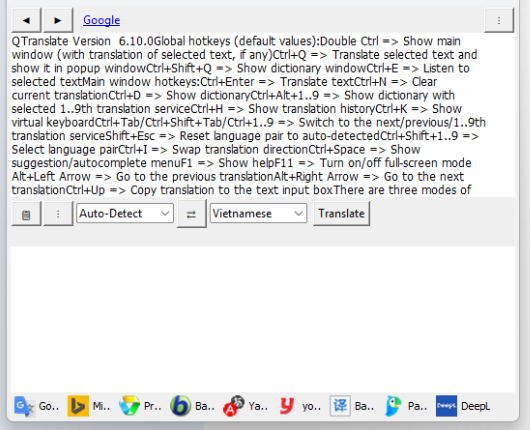
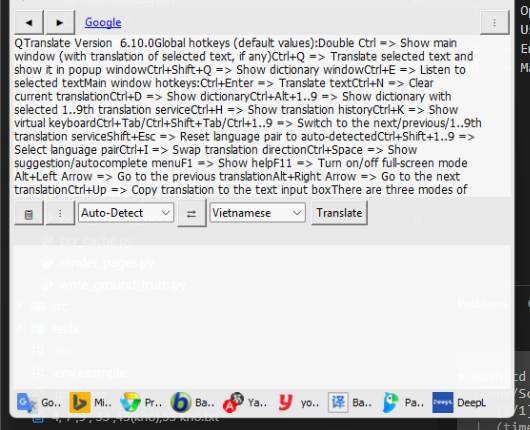
Fix: Dictionary window now filters out DisabledDictionaries
Globally disabled dictionaries (Options > Services) were still shown and
queried in the lookup window; DictionariesOrder is now filtered by
DisabledDictionaries, matching how DisabledServices already gates the
translate strip.

Changed region(s): [[0.0, 0.0, 1.0, 1.0]]

diff --git a/qtranslate/app.py b/qtranslate/app.py
@@ -3107,6 +3107,10 @@ class App:
             _dorder = _C.load().get("DictionariesOrder",
                                     [10, 19, 20, 14, 17, 18, 22, 24, 25,
                                      26, 29])
+            # DisabledDictionaries: globally disabled dicts must not
+            # appear at all (was previously shown and queried regardless).
+            _ddis = set(_C.load().get("DisabledDictionaries", []))
+            _dorder = [sid for sid in _dorder if sid not in _ddis]
         except Exception:
             _dcfg, _dorder = {}, [10, 19, 20, 14, 17, 18, 22, 24, 25,
                                   26, 29]
